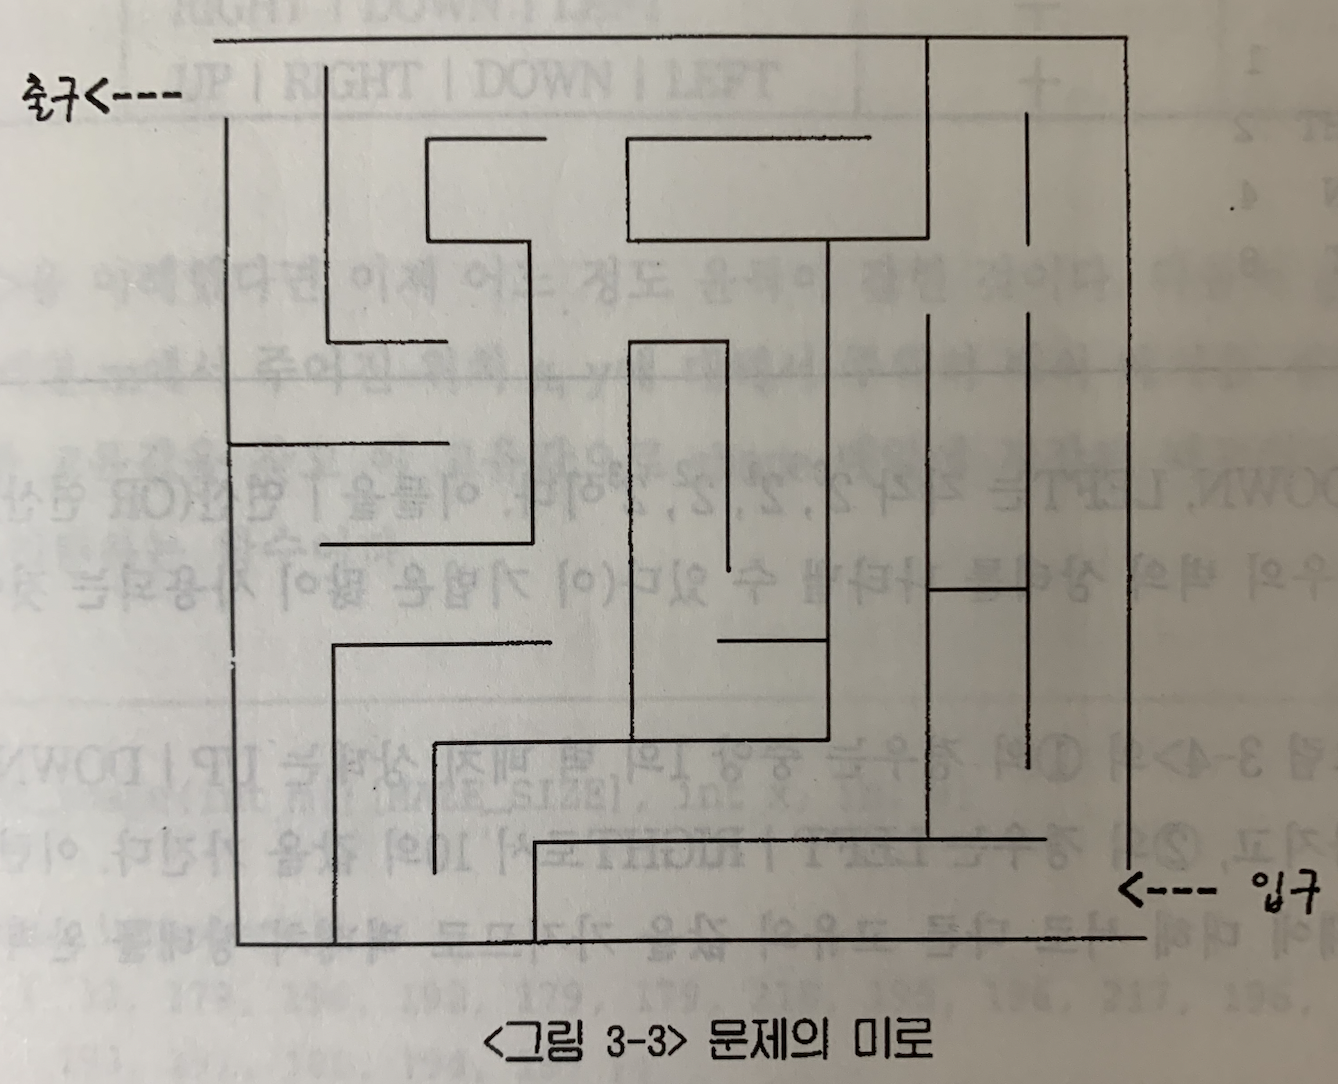
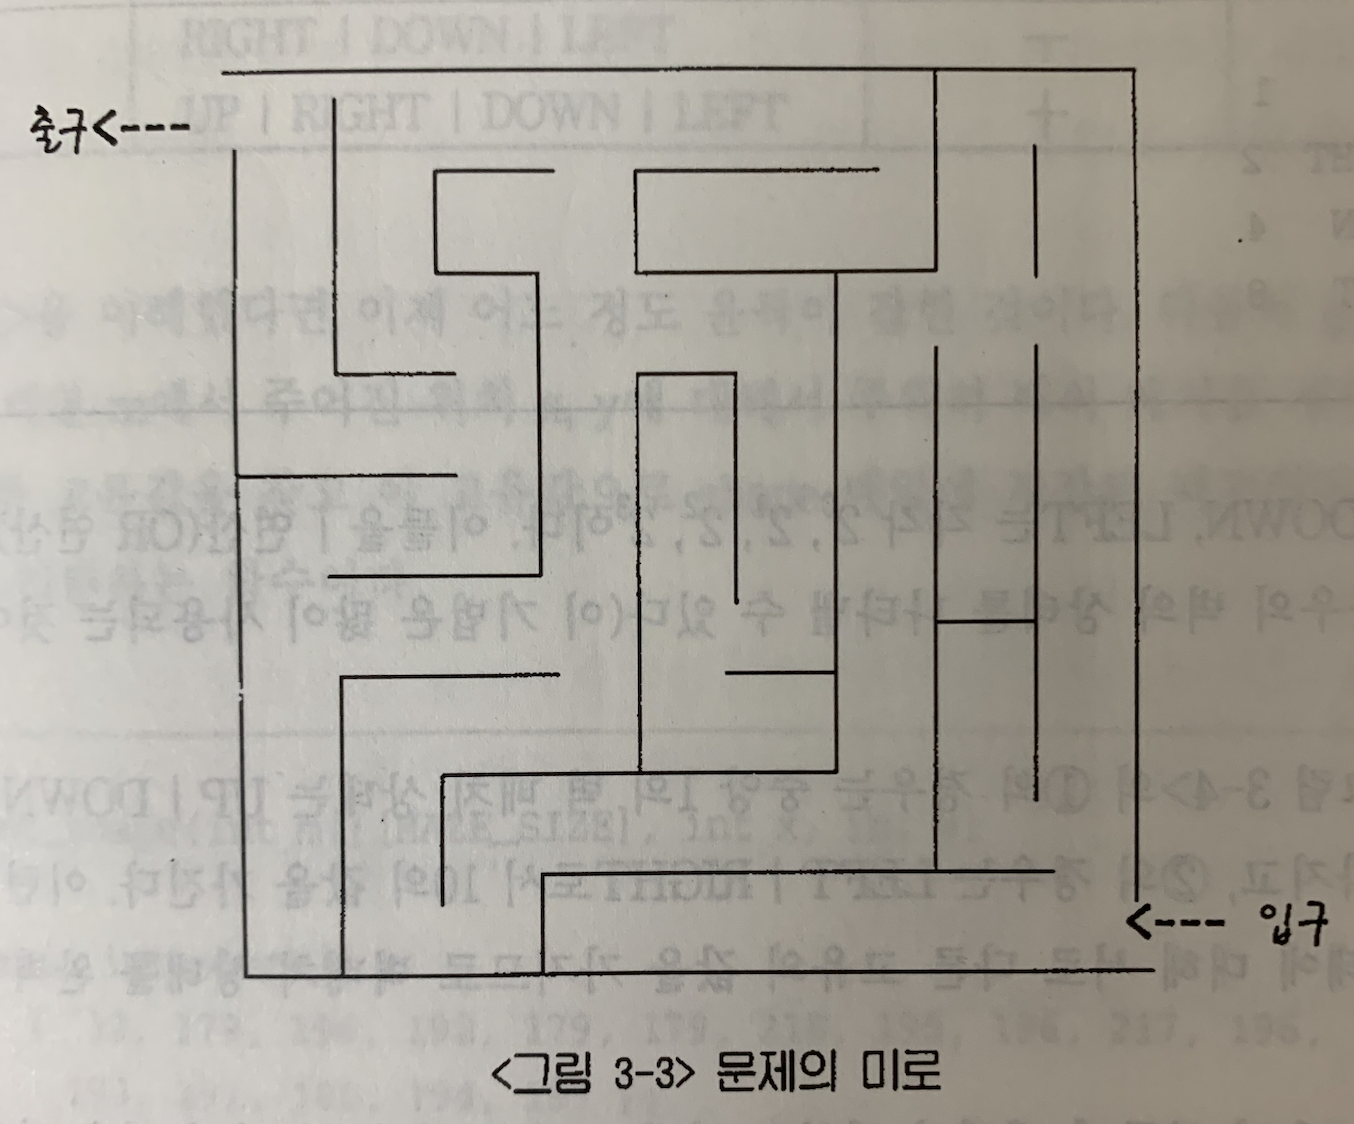
ac1: ac1: changed micromouse_maze.png and resized it to width="50%" height="50%"

diff --git a/c/ac1/README.md b/c/ac1/README.md
@@ -1,4 +1,4 @@
 # Algorithm with C 1
 ## Micromouse
 A mouse must find the shortest path to escape from the maze.
-<p align="center"><img src="images/micromouse_maze.png" width="40%" height="40%"/></p>
+<p align="center"><img src="images/micromouse_maze.png" width="50%" height="50%"/></p>
